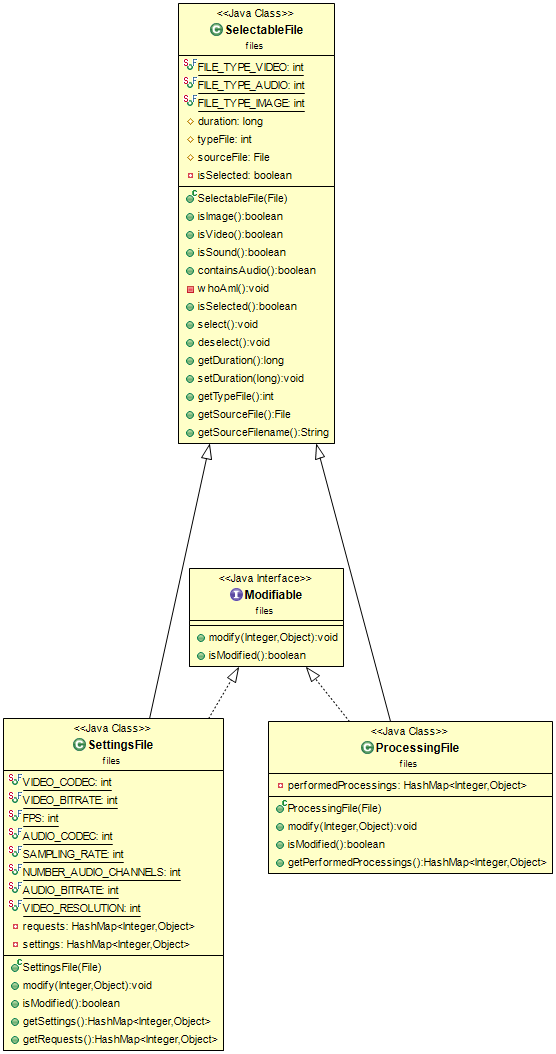
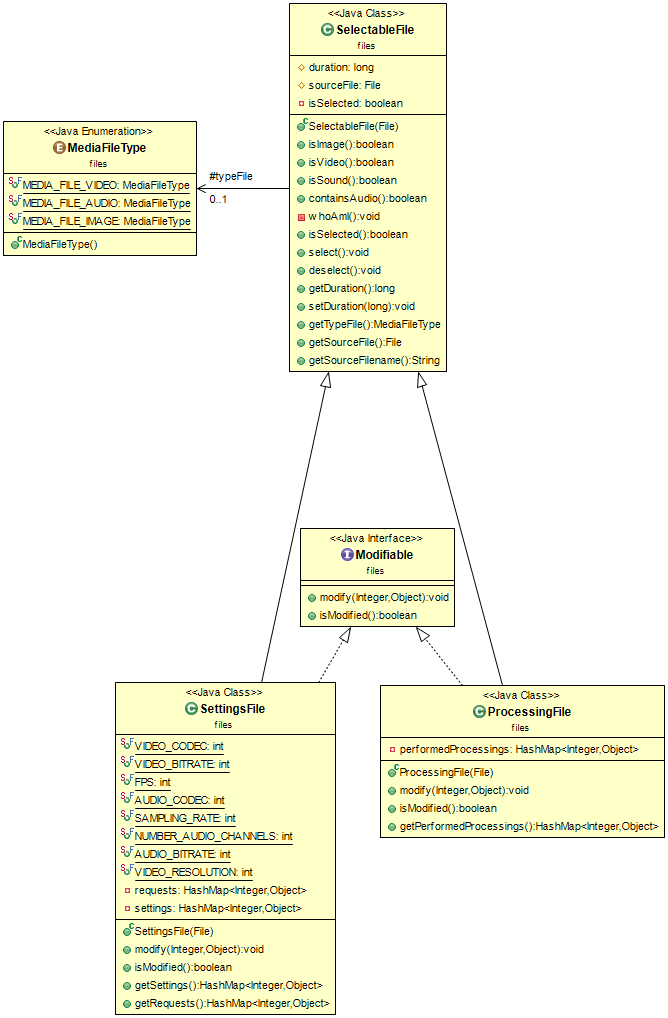
Ajout d'un patron iterateur pour la consommation des flux - termine, et d'un patron pour strategie pour la gestion des flux - pas termine.

diff --git a/src/files/SelectableFile.java b/src/files/SelectableFile.java
@@ -15,34 +15,7 @@ import exceptions.IncorrectFileException;
 public class SelectableFile{
 	//=======================================================================================================================
 	//=======================================================================================================================
-	
-	
-	/**
-	 * [ CONSTANTES DE CLASSE. ]
-	 * 
-	 * Ces constantes permettent d'indiquer le type du fichier source d'une instance
-	 * de la classe.
-	 */
 
-	/**
-	 * Constante indiquant que le fichier est un fichier video.
-	 */
-	public final static int FILE_TYPE_VIDEO = 0;
-
-	/**
-	 * Constante indiquant que le fichier est un fichier audio.
-	 */
-	public final static int FILE_TYPE_AUDIO = 1;
-
-	/**
-	 * Constante indiquant que le fichier est un fichier image.
-	 */
-	public final static int FILE_TYPE_IMAGE = 2;
-
-	
-	//=======================================================================================================================
-	//=======================================================================================================================
-	
 	
 	/**
 	 * [ ATTRIBUTS D'INSTANCE DE LA CLASSE. ]
@@ -56,7 +29,7 @@ public class SelectableFile{
 	/**
 	 * Le type de fichier.
 	 */
-	protected int typeFile;
+	protected MediaFileType typeFile;
 
 	/**
 	 * Le fihier source.
@@ -102,7 +75,7 @@ public class SelectableFile{
 	 * @return booleen Vaut true si le fichier source est une image.
 	 */
 	public boolean isImage() {
-		return typeFile == SelectableFile.FILE_TYPE_IMAGE;
+		return typeFile == MediaFileType.MEDIA_FILE_IMAGE;
 	}
 
 	/**
@@ -114,7 +87,7 @@ public class SelectableFile{
 	 * @return booleen Vaut true si le fichier source est une video.
 	 */
 	public boolean isVideo() {
-		return typeFile == SelectableFile.FILE_TYPE_VIDEO;
+		return typeFile == MediaFileType.MEDIA_FILE_VIDEO;
 	}
 
 	/**
@@ -126,7 +99,7 @@ public class SelectableFile{
 	 * @return booleen Vaut true si le fichier source est un son.
 	 */
 	public boolean isSound() {
-		return typeFile == SelectableFile.FILE_TYPE_AUDIO;
+		return typeFile == MediaFileType.MEDIA_FILE_AUDIO;
 	}
 
 	/**
@@ -153,20 +126,20 @@ public class SelectableFile{
 	 * ou meme une image.
 	 * 
 	 * 3 valeurs possiblement accordable a typeFile : 
-	 * - FILE_TYPE_VIDEO ( = 0 ) ; 
-	 * - FILE_TYPE_AUDIO ( = 1 ) ; 
-	 * - FILE_TYPE_IMAGE ( = 2 ).
+	 * - MEDIA_FILE_VIDEO ( = 0 ) ; 
+	 * - MEDIA_FILE_AUDIO ( = 1 ) ; 
+	 * - MEDIA_FILE_IMAGE ( = 2 ).
 	 * 
 	 * @throws IncorrectFileException 
 	 */
 	private void whoAmI() throws IncorrectFileException {
 		String fileName = sourceFile.getName().toLowerCase();
 		if (fileName.endsWith("mp4") || fileName.endsWith("avi") || fileName.endsWith("flv"))
-			typeFile = FILE_TYPE_VIDEO;
+			typeFile = MediaFileType.MEDIA_FILE_VIDEO;
 		else if (fileName.endsWith("mp3") || fileName.endsWith("wav") || fileName.endsWith("ogg"))
-				typeFile = FILE_TYPE_AUDIO;
+				typeFile = MediaFileType.MEDIA_FILE_AUDIO;
 			else if (fileName.endsWith("png") || fileName.endsWith("jpg") || fileName.endsWith("jpeg"))
-					typeFile = FILE_TYPE_IMAGE;
+					typeFile = MediaFileType.MEDIA_FILE_IMAGE;
 				else
 					throw new IncorrectFileException(IncorrectFileException.FORBIDDEN_FILE);
 	}
@@ -232,9 +205,9 @@ public class SelectableFile{
 	 * 
 	 * Methode pour recuperer le type du fichier.
 	 * 
-	 * @return int Le type du fichier.
+	 * @return MediaFileType	 Le type du fichier.
 	 */
-	public int getTypeFile() {
+	public MediaFileType getTypeFile() {
 		return typeFile;
 	}
 

diff --git a/src/wrapper/StreamsFilter.java b/src/wrapper/StreamsFilter.java
@@ -1,0 +1,69 @@
+package wrapper;
+
+public final class StreamsFilter implements StreamsManager {
+	//=======================================================================================================================
+	//=======================================================================================================================
+	
+	
+	/**
+	 * [ METHODE INTERNE DE CLASSE. ]
+	 * 
+	 * Cette methode permet de connaitre l'index du caractere situe apres
+	 * une donnee a extraire. Plus simplement cette methode determine la 
+	 * l'index du caractere qui delime la fin de chaine a extraire.
+	 */
+	private static int findEndIndexSetting(String informations, int fromIndex) {
+		int indexSpace = informations.indexOf(' ', fromIndex);
+		int indexComa = informations.indexOf(',', fromIndex);
+		return indexSpace<indexComa || indexComa==-1 ? indexSpace : indexComa;	
+	}
+	
+	
+	/**
+	 * [ METHODE INTERNE DE CLASSE. ]
+	 * 
+	 * Cette methode permet d'extraire une des caracteristiques d'un fichier video ou audio
+	 * dont FFMPEG nous a fourni une longue plage d'informations. 
+	 */
+	private static String findSetting(String informations, String start, int indexSetting) {
+		int indexStart = informations.indexOf(start) + start.length();
+		if(indexSetting != 0) {
+			int indexEvolve = indexStart;
+			
+			for(int i=0; i<indexSetting; i++) 
+				indexEvolve = informations.indexOf(',', indexEvolve)+1;
+			
+			indexEvolve++;
+			
+			return  informations.substring(indexEvolve,findEndIndexSetting(informations, indexEvolve));
+		}else
+			return  informations.substring(indexStart,findEndIndexSetting(informations, indexStart));
+	}
+	
+	/**
+	 * [ METHODE INTERNE DE CLASSE. ]
+	 * 
+	 * Methode pour extraire la cararteristique d'un fichier 
+	 * video dans la plage d'informations fournie par FFMPEG 
+	 * a partir d'in index. 
+	 */
+	private static String findVideoSetting(String informations, int indexSetting) {
+		return findSetting(informations, "Video: ", indexSetting);
+	}
+
+	/**
+	 * [ METHODE INTERNE DE CLASSE. ]
+	 * 
+	 * Methode pour extraire la caracteristique d'un fichier 
+	 * audio dans la plage d'informations fournie par FFMPEG 
+	 * a partir d'in index. 
+	 */
+	private static String findAudioSetting(String informations, int indexSetting) {
+		return findSetting(informations, "Audio: ", indexSetting);
+	}
+
+
+	
+	//=======================================================================================================================
+	//=======================================================================================================================
+}

diff --git a/src/wrapper/StreamsConsumer.java b/src/wrapper/StreamsConsumer.java
@@ -10,7 +10,7 @@ import javax.swing.JOptionPane;
  * Auteurs du projet : 
  * @author HUBLAU Alexandre, PAMIERI Adrien, DA SILVA CARMO Alexandre, et CHEVRIER Jean-christophe.
  */
-public final class StreamsConsumer{
+public final class StreamsConsumer implements StreamsManager{
 	//=======================================================================================================================
 	//=======================================================================================================================	
 	
@@ -36,37 +36,24 @@ public final class StreamsConsumer{
 	 * @param processToBeConsume				Process a consommer.
 	 */
 	public static void consumeStreams(Process processToBeConsume) {
-		try {
-			/**
-			 * CONSOMMATION DU FLUX D'ERREURS DE FFMPEG. 
-			 * 
-			 * InputStream represente ici le flux d'erreur de l'application externe
-			 * ( STDERR de l'application externe : FFMPEG. ).
-			 */ 
-			BufferedReader consumer = new BufferedReader(new InputStreamReader(processToBeConsume.getErrorStream()));
-			String line = "";
-			try {
-				while((line = consumer.readLine()) != null);
-			} finally {
-				consumer.close();
-			}
-			
-			
-			/**
-			 * CONSOMMATION DU FLUX DE SORTIE DE FFMPEG.
-			 *  
-			 * InputStream represente le flux de sortie de l'application externe 
-			 * ( STDOUT de l'application externe : FFMPEG. ).
-			 */
-			consumer = new BufferedReader(new InputStreamReader(processToBeConsume.getInputStream()));
-			try {
-				while((line = consumer.readLine()) != null);
-			} finally {
-				consumer.close();
-			}
-		} catch(IOException ioe) {
-			JOptionPane.showMessageDialog(null, MessageConstants.FALIURE_UNFINDABLE_STREAMS);
-		}
+		/**
+		 * CONSOMMATION DU FLUX D'ERREURS DE FFMPEG. 
+		 * 
+		 * InputStream represente ici le flux d'erreur de l'application externe
+		 * ( STDERR de l'application externe : FFMPEG. ).
+		 */ 
+		StreamIterator consumer = new ErrorStreamIterator(processToBeConsume);
+		while(consumer.hasNext());
+		
+		
+		/**
+		 * CONSOMMATION DU FLUX DE SORTIE DE FFMPEG.
+		 *  
+		 * InputStream represente le flux de sortie de l'application externe 
+		 * ( STDOUT de l'application externe : FFMPEG. ).
+		 */
+		consumer = new InputStreamIterator(processToBeConsume);
+		while(consumer.hasNext());
 		
 		
 		 try {
@@ -79,6 +66,7 @@ public final class StreamsConsumer{
 			 JOptionPane.showMessageDialog(null, MessageConstants.FALIURE_ACTIVE_WAIT_FOR);
 		}
 	}
+	
 	
 	
 	

diff --git a/src/wrapper/StreamIterator.java b/src/wrapper/StreamIterator.java
@@ -1,0 +1,41 @@
+package wrapper;
+
+import java.io.*;
+import java.util.Iterator;
+import javax.swing.JOptionPane;
+
+public abstract class StreamIterator implements Iterator<String>{
+	private BufferedReader streamToRead;
+	private String lastLineRead;
+	
+	public StreamIterator(InputStream stream) {
+		streamToRead = new BufferedReader(new InputStreamReader(stream));
+	}
+	
+	@Override
+	public boolean hasNext() {
+		try {
+			/**
+			 * ETUDE DE LA LIGNE ULTERIEURE.
+			 * 
+			 * On lit la ligne ulterirure, et on ferme le flux 
+			 * si il n'y a pas de ligne ulterieur.
+			 */
+			if((lastLineRead = streamToRead.readLine()) == null) streamToRead.close();
+			return lastLineRead == null;
+			
+		} catch (IOException e) {
+			
+			/**
+			 * EXCEPTIONS, PAS DE FLUX TROUVES. 
+			 */
+			JOptionPane.showMessageDialog(null, MessageConstants.FALIURE_UNFINDABLE_STREAMS);
+			return false;
+		}
+	}
+
+	@Override
+	public String next() {
+		return lastLineRead;
+	}
+}

diff --git a/src/files/MediaFileType.java b/src/files/MediaFileType.java
@@ -1,0 +1,23 @@
+package files;
+/**
+ * [ ENUMERATION DES TYPES DE FICHIERS MEDIA. ]
+ * 
+ * Auteurs du projet : 
+ * @author HUBLAU Alexandre, PAMIERI Adrien, DA SILVA CARMO Alexandre, et CHEVRIER Jean-christophe.
+ */
+public enum MediaFileType {
+	/**
+	 * Le type des fichiers media video.
+	 */
+	 MEDIA_FILE_VIDEO,
+
+	/**
+	 * Le type des fichiers media audio.
+	 */
+	 MEDIA_FILE_AUDIO,
+
+	/**
+	 * Le type des fichiers media image.
+	 */
+	 MEDIA_FILE_IMAGE
+}

diff --git a/src/wrapper/ErrorStreamIterator.java b/src/wrapper/ErrorStreamIterator.java
@@ -1,0 +1,9 @@
+package wrapper;
+
+import java.util.Iterator;
+
+public final class ErrorStreamIterator extends StreamIterator{
+	public ErrorStreamIterator(Process processToBeConsume) {
+		super(processToBeConsume.getErrorStream());
+	}
+}

diff --git a/src/wrapper/InputStreamIterator.java b/src/wrapper/InputStreamIterator.java
@@ -1,0 +1,9 @@
+package wrapper;
+
+import java.util.Iterator;
+
+public final class InputStreamIterator extends StreamIterator{
+	public InputStreamIterator(Process processToBeConsume) {
+		super(processToBeConsume.getInputStream());
+	}
+}

diff --git a/src/wrapper/StreamsManager.java b/src/wrapper/StreamsManager.java
@@ -1,0 +1,3 @@
+package wrapper;
+
+public interface StreamsManager {}
